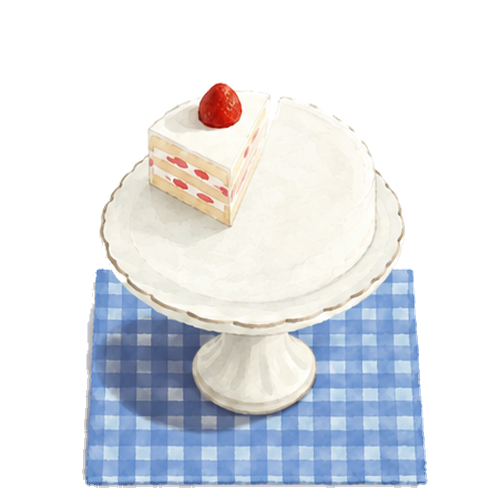
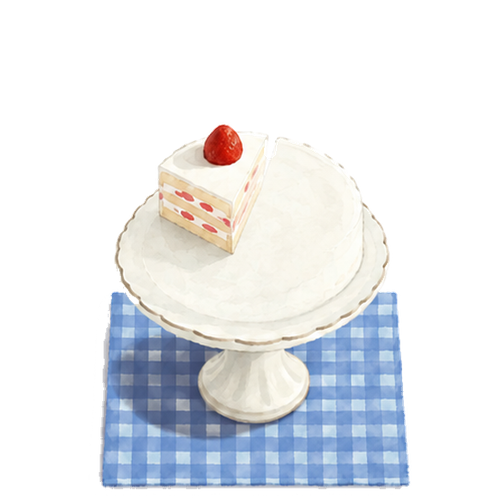
Cake frames: the last three at the size of the first four; the two-slice frame shows two pieces

diff --git a/Docs/tools/report_page/index.html b/Docs/tools/report_page/index.html
@@ -75,13 +75,38 @@ h3 small{font-weight:600;color:var(--soft);font-size:13px;margin-left:6px}
 <div class="grid">
 <div class="who p1"><h3>You</h3>
 <p><b>Test build 36</b> (TestFlight, version 26.11.29): arrange the kitchen in the morning; try a red piece and see Ready go off. The new choux plate is on the table.</p>
-<p><b>Kitchen</b> (Current): tick how the arrangement feels; the old places are back (say "build" for a new test build); the glow brush also waits.</p>
+<p><b>Kitchen</b> (Current): tick how the arrangement feels. The blender is back at its old place; say "build" for a new test build.</p>
+<p><b>iCloud:</b> blender_redraw_body, blender_redraw_glow (same canvas, lay one over the other) and coffee_bags_glow are in "FoodTruckCafe art".</p>
+<p><b>Cake</b> (Current): frames fixed; tick.</p>
 <p><b>Shadows</b> (Q&amp;A): the one shadow at 60 % is on the table items; the kitchen keeps its own.</p>
 <p><b>App Store page</b> (Q&amp;A): tick which improvements to make.</p></div>
 <div class="who p2"><h3>Me</h3><p><b>Choux:</b> ChatGPT's hand-drawn repaint of the four comes at 4:58 PM.</p><p><b>App Store page:</b> waiting on your ticks.</p></div>
 </div>
 
 <h2 id="qa"><span class="n">2</span>Q&amp;A</h2>
+<div class="q"><h3>You asked: the long cabinet can hold two items? How does it work if I put only one? (16 November)</h3>
+<ul>
+<li><b>It has two places:</b> left and right. A piece dropped in jumps to the place nearer to where you let go. One piece alone stays on that side; it does not move to the middle.</li>
+<li><b>A wide piece takes the whole cabinet:</b> the board, the baskets and the coffee bags are wider than half of it, so they sit in the middle, alone. A second piece beside them turns both red.</li>
+<li>So in practice two small pieces fit side by side (juice and whisk); anything bigger is one per cabinet. The shelf works the same way.</li>
+</ul>
+<ul class="checks">
+<li><label><input type="checkbox" data-id="qa.cab.middle"> Change it: one piece alone sits in the middle</label></li>
+<li><label><input type="checkbox" data-id="qa.cab.seen"> Seen, remove this</label></li>
+</ul></div>
+<div class="q"><h3>You asked: check the info banners in App Store Connect (16 November)</h3>
+<p style="margin:6px 0">Three banners on the version page. None blocks 26.11.22, which is still in review.</p>
+<ul>
+<li><b>China mainland, security assessment:</b> Apple wants proof of a completed Security Assessment and a report. Existing apps have until 31 January 2027.</li>
+<li><b>China mainland, AI content declaration:</b> a declaration and filing about AI-generated content, same date.</li>
+<li><b>New ways to market apps:</b> the header and search pictures and the iPhone Duo slots; the same things as in the App Store page list below.</li>
+</ul>
+<p style="margin:6px 0">The App Compliance page also lists a China game approval number, required for games with in-app purchases; we have those now. As far as I know, the approval number needs a publisher in China; I have not read Apple's detail pages for the two new filings yet. If they cannot be done, the way out is to stop selling in China mainland before the date. That is an availability change, so it needs your yes; nothing is due before 31 January.</p>
+<ul class="checks">
+<li><label><input type="checkbox" data-id="qa.china.remove"> Take the game off the China mainland store (I will ask again before doing it)</label></li>
+<li><label><input type="checkbox" data-id="qa.china.read"> Read Apple's detail pages and tell me what each filing takes</label></li>
+<li><label><input type="checkbox" data-id="qa.china.later"> Leave it for now</label></li>
+</ul></div>
 <div class="q"><h3>You asked: one shadow for every cloth, at 60 %, on all items; show me screenshots (16 November)</h3>
 <p style="margin:6px 0"><b>Done, in the project, in no build:</b> every table item's shadow is now near-black <span style="display:inline-block;width:14px;height:14px;border-radius:3px;vertical-align:-2px;border:1px solid rgba(0,0,0,.25);background:rgb(20,16,24)"></span> 20, 16, 24, see-through at 60 %. Each shadow keeps its drawn shape; only its paint changed, so it is a darker shade of whatever lies under it.</p>
 <figure><img src="shadow_ch1.jpg" alt="The chapter 1 table before and after: the shadows of the baskets, juice, coffee station, plates and jar are now darker red on red and grey on white instead of grey-blue"></figure>
@@ -167,6 +192,20 @@ Store text, so only with your words; Apple reviews it with the next version.</li
 </ul></div>
 
 <h2 id="current"><span class="n">3</span>Current</h2>
+
+<div class="card">
+<p style="margin-top:0"><b>Cake frames fixed, 16 November.</b> In the project, in no build.</p>
+<figure><img src="cake_frames_fix.jpg" alt="The seven cake frames before and after: the last three are now the same size as the first four, and the two-slice frame shows two pieces instead of three"></figure>
+<ul>
+<li><b>Size:</b> the frames for 2 slices, 1 slice and empty were about a tenth bigger than the others, so the stand grew when the fourth slice was served. All seven match now.</li>
+<li><b>2 slices:</b> it showed the same three pieces as the 3-slice frame. The middle slice is taken out, with the empty plate's own pixels behind it.</li>
+<li><b>Still odd, from ChatGPT's drawing:</b> the strawberries go 6, 4, 3, 2, 1 instead of 6, 5, 4, 3, 2. Fixing that needs a redraw.</li>
+</ul>
+<ul class="checks">
+<li><label><input type="checkbox" data-id="cur.cakefix.good"> Good</label></li>
+<li><label><input type="checkbox" data-id="cur.cakefix.redraw"> Ask ChatGPT to redraw the seven frames, one strawberry per slice</label></li>
+</ul>
+</div>
 
 <div class="card">
 <p style="margin-top:0"><b>Choux: the new plate and ChatGPT's four choux are in the game, test build 36, 16 November.</b></p>
